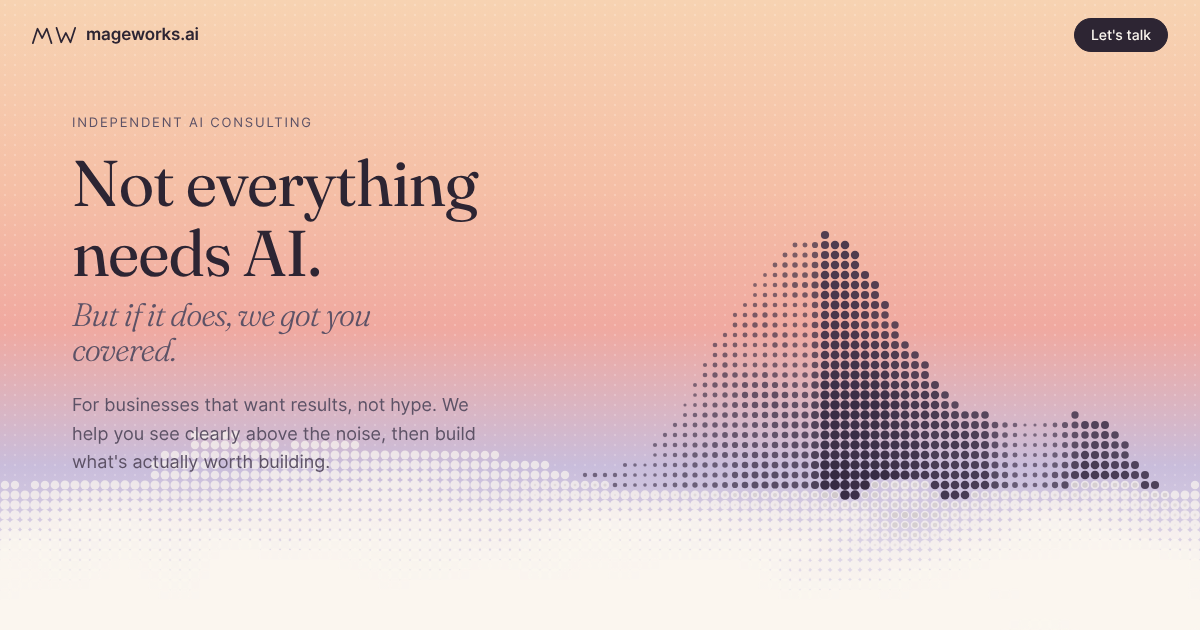
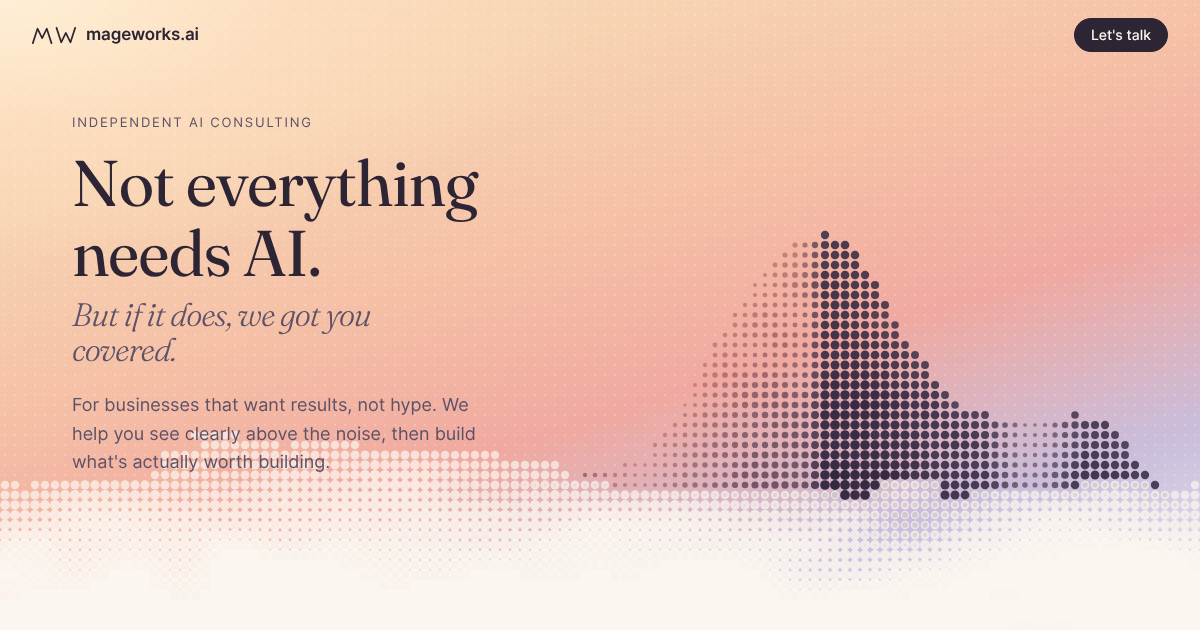
Design: top-left sunlight on hero, shake on invalid form, sliding Send success state
Claude-Session: https://claude.ai/code/session_015MoEFBQU6hkqTY2JQmHwoN

diff --git a/public/index.html b/public/index.html
@@ -78,7 +78,7 @@
   .progress { position: fixed; top: 0; left: 0; height: 3px; background: var(--accent); z-index: 30; width: 0; }
 
   /* Hero */
-  .hero { position: relative; z-index: 2; height: 100vh; min-height: 640px; overflow: visible; background: linear-gradient(180deg, var(--peach) 0%, #f5bfa6 30%, var(--coral) 52%, var(--lav) 74%, var(--mist) 100%); }
+  .hero { position: relative; z-index: 2; height: 100vh; min-height: 640px; overflow: visible; background: radial-gradient(ellipse 70% 60% at 0% 0%, rgba(255,240,214,.95) 0%, rgba(255,226,196,.55) 35%, rgba(255,226,196,0) 70%), linear-gradient(162deg, #f9dcbc 0%, var(--peach) 22%, #f5bfa6 42%, var(--coral) 60%, var(--lav) 80%, var(--mist) 100%); }
   .hero canvas { position: absolute; left: 0; top: 0; width: 100%; pointer-events: none; }
   .hero-copy { position: relative; z-index: 3; padding-top: 112px; will-change: transform, opacity; }
   .eyebrow { font-size: 13px; letter-spacing: .14em; text-transform: uppercase; color: var(--ink-2); margin-bottom: 16px; }
@@ -236,7 +236,20 @@
   .consent { font-size: 13px; color: var(--ink-2); line-height: 1.55; margin: 2px 0 4px; }
   .consent a { color: var(--ink); }
   .h-captcha { min-height: 78px; }
-  #sendBtn[disabled] { opacity: .6; cursor: wait; }
+  #sendBtn { position: relative; justify-content: center; overflow: hidden; transition: background .35s, border-color .35s, transform .2s; }
+  #sendBtn[disabled] { cursor: wait; }
+  #sendBtn .lbl, #sendBtn .arr { display: inline-block; transition: transform .55s cubic-bezier(.6,0,.3,1), opacity .4s; }
+  #sendBtn:hover:not([disabled]) .arr { transform: translateX(4px); }
+  #sendBtn.sending .arr { animation: nudge .9s ease-in-out infinite; }
+  @keyframes nudge { 0%, 100% { transform: translateX(0); } 50% { transform: translateX(7px); } }
+  #sendBtn .done { position: absolute; inset: 0; display: flex; align-items: center; justify-content: center; gap: 8px; transform: translateX(-105%); transition: transform .55s cubic-bezier(.3,0,.2,1) .2s; }
+  #sendBtn.sent { background: #3f6b34; border-color: #3f6b34; }
+  #sendBtn.sent .lbl, #sendBtn.sent .arr { transform: translateX(420px); opacity: 0; }
+  #sendBtn.sent .done { transform: none; }
+  .shake { animation: shake .45s cubic-bezier(.36,.07,.19,.97); }
+  @keyframes shake { 10%, 90% { transform: translateX(-2px); } 20%, 80% { transform: translateX(4px); } 30%, 50%, 70% { transform: translateX(-8px); } 40%, 60% { transform: translateX(8px); } }
+  .h-captcha.need { outline: 2px solid #c7655a; outline-offset: 4px; border-radius: 6px; }
+  @media (prefers-reduced-motion: reduce) { .shake, #sendBtn.sending .arr { animation: none; } #sendBtn .lbl, #sendBtn .arr, #sendBtn .done { transition: none; } }
   input[aria-invalid="true"], textarea[aria-invalid="true"] { border-color: #c7655a; }
   footer { background: var(--coral); padding: 28px 0 40px; font-size: 14px; color: var(--ink); }
   footer .wrap { display: flex; justify-content: space-between; gap: 16px; flex-wrap: wrap; }
@@ -424,7 +437,7 @@
       <label class="check"><input type="checkbox" name="marketing_opt_in" value="yes"> <span>Also send me occasional emails with practical AI tips and workshop invites. I can unsubscribe at any time. <em>(optional)</em></span></label>
       <div class="h-captcha" data-captcha="true"></div>
       <p class="consent">We'll use your details only to reply to your enquiry and follow up about it. Name, email and message are required so we can get back to you. See our <a href="/privacy">Privacy Notice</a> for how we handle your data and your rights. <span lang="ms">Baca <a href="/privacy#bm">Notis Privasi dalam Bahasa Malaysia</a>.</span></p>
-      <button class="btn dark" type="submit" id="sendBtn">Send</button>
+      <button class="btn dark" type="submit" id="sendBtn"><span class="lbl">Send</span> <span class="arr" aria-hidden="true">→</span><span class="done" aria-hidden="true">Sent ✓</span></button>
       <p class="form-note" id="note" role="status" aria-live="polite"></p>
     </form>
   </div>
@@ -486,10 +499,13 @@
         if (gy < r0) { cells.push({ x: gx, y: gy, sky: true }); continue; }
         const depth = Math.min(1, (gy - r0) / (H * 0.28));
         const slope = (ridgeBase(gx + 6) - ridgeBase(gx - 6)) / 12;           // smooth: + means right-hand (shadow) face
-        let v = 0.32 + depth * 0.3 + Math.max(-0.16, Math.min(0.3, slope * 0.9)) + (fbm(gx * 0.025, gy * 0.025) - 0.5) * 0.3;
+        // Light comes from the top-left: left-facing slopes catch it, right-facing slopes and the lower-right fall into shadow
+        let v = 0.32 + depth * 0.3 + Math.max(-0.16, Math.min(0.3, slope * 0.9)) + (fbm(gx * 0.025, gy * 0.025) - 0.5) * 0.3 + 0.1 * (gx / W - 0.5);
         v = Math.max(0.1, Math.min(1, v));
         const mist = mistAt(gx, gy, zones);
-        cells.push({ x: gx, y: gy, r: S * 0.5 * Math.sqrt(v) * (1 - 0.55 * mist), a: (0.5 + v * 0.5) * (1 - 0.82 * mist) });
+        const lit = Math.max(0, Math.min(1, -slope * 1.6 + 0.15)) * (1 - depth * 0.75);   // 0 = shadow, 1 = sunlit
+        const col = [Math.round(52 + (176 - 52) * lit), Math.round(40 + (98 - 40) * lit), Math.round(64 + (96 - 64) * lit)].join(',');
+        cells.push({ x: gx, y: gy, r: S * 0.5 * Math.sqrt(v) * (1 - 0.55 * mist), a: (0.5 + v * 0.5) * (1 - 0.82 * mist), col });
       }
     }
   }
@@ -539,14 +555,14 @@
         // inside the cloud bank: solid cream, matching the next section's background
         ctx.fillStyle = CREAM; ctx.fillRect(c.x - S / 2 - 0.5, c.y - S / 2 - 0.5, S + 1, S + 1);
       } else if (k > 0.22) {
-        if (!c.sky && k < 0.6) { const f = 1 - k / 0.6; ctx.fillStyle = `rgba(52,40,64,${c.a * f})`; ctx.beginPath(); ctx.arc(c.x, c.y, c.r * f, 0, 7); ctx.fill(); }
+        if (!c.sky && k < 0.6) { const f = 1 - k / 0.6; ctx.fillStyle = `rgba(${c.col},${c.a * f})`; ctx.beginPath(); ctx.arc(c.x, c.y, c.r * f, 0, 7); ctx.fill(); }
         // dots swell as the cloud thickens, so the edge of the bank is soft and organic
         ctx.fillStyle = `rgba(251,246,239,${0.6 + k * 0.4})`;
         ctx.beginPath(); ctx.arc(c.x, c.y, S * (0.42 + 0.4 * (k - 0.22)), 0, 7); ctx.fill();
       } else if (c.sky) {
         ctx.fillStyle = 'rgba(255,255,255,0.3)'; ctx.beginPath(); ctx.arc(c.x, c.y, S * 0.09, 0, 7); ctx.fill();
       } else {
-        ctx.fillStyle = `rgba(52,40,64,${c.a})`; ctx.beginPath(); ctx.arc(c.x, c.y, c.r, 0, 7); ctx.fill();
+        ctx.fillStyle = `rgba(${c.col},${c.a})`; ctx.beginPath(); ctx.arc(c.x, c.y, c.r, 0, 7); ctx.fill();
       }
     }
   }
@@ -597,6 +613,8 @@
   // Enquiry form: Web3Forms + hCaptcha, submitted in the background so the page stays put
   const form = document.getElementById('form'), note = document.getElementById('note'), sendBtn = document.getElementById('sendBtn');
   const say = (msg, cls) => { note.textContent = msg; note.className = 'form-note' + (cls ? ' ' + cls : ''); };
+  const shake = el => { el.classList.remove('shake'); void el.offsetWidth; el.classList.add('shake'); el.addEventListener('animationend', () => el.classList.remove('shake'), { once: true }); };
+  form.querySelectorAll('[required]').forEach(el => el.addEventListener('input', () => el.setAttribute('aria-invalid', 'false')));
   form.addEventListener('submit', async e => {
     e.preventDefault();
     let firstBad = null;
@@ -605,24 +623,31 @@
       el.setAttribute('aria-invalid', bad ? 'true' : 'false');
       if (bad && !firstBad) firstBad = el;
     });
-    if (firstBad) { say('Please fill in your name, a valid email and your message.', 'err'); firstBad.focus(); return; }
+    if (firstBad) {
+      say('Please fill in your name, a valid email and your message.', 'err');
+      form.querySelectorAll('[aria-invalid="true"]').forEach(shake); shake(sendBtn); firstBad.focus(); return;
+    }
     const data = new FormData(form);
     if (data.get('access_key') === 'REPLACE_WITH_WEB3FORMS_ACCESS_KEY') { say('The form isn\'t connected yet. Please email info@mageworks.ai for now.', 'err'); return; }
-    if (!data.get('h-captcha-response')) { say('Please complete the "I am human" check above the Send button.', 'err'); return; }
-    sendBtn.disabled = true; say('Sending…');
+    const cap = form.querySelector('.h-captcha');
+    if (!data.get('h-captcha-response')) { say('Please complete the "I am human" check above the Send button.', 'err'); cap.classList.add('need'); shake(cap); shake(sendBtn); return; }
+    cap.classList.remove('need');
+    sendBtn.disabled = true; sendBtn.classList.add('sending'); say('Sending…');
     try {
       const res = await fetch('https://api.web3forms.com/submit', { method: 'POST', headers: { Accept: 'application/json' }, body: data });
       const out = await res.json().catch(() => ({}));
       if (res.ok && out.success) {
         form.reset(); if (window.hcaptcha) try { hcaptcha.reset(); } catch (_) {}
+        sendBtn.classList.remove('sending'); sendBtn.classList.add('sent');
+        setTimeout(() => sendBtn.classList.remove('sent'), 5000);
         say('Thanks, your message is on its way. Chee Loung will get back to you, usually within one working day.', 'ok');
       } else {
-        say('Sorry, that didn\'t go through. Please try again, or email info@mageworks.ai.', 'err');
+        say('Sorry, that didn\'t go through. Please try again, or email info@mageworks.ai.', 'err'); shake(sendBtn);
         if (window.hcaptcha) try { hcaptcha.reset(); } catch (_) {}
       }
     } catch (_) {
       say('Sorry, that didn\'t go through. Please check your connection, or email info@mageworks.ai.', 'err');
-    } finally { sendBtn.disabled = false; }
+    } finally { sendBtn.disabled = false; sendBtn.classList.remove('sending'); }
   });
 })();
 </script>

diff --git a/CHANGELOG.md b/CHANGELOG.md
@@ -1,5 +1,11 @@
 # Changelog
 
+## 2026-11-06: Design changes on site-v1
+- Hero lighting: warm sun glow from the top-left and a diagonal sky gradient; the mountain's left slopes catch warm light while the right side stays in shadow.
+- Form: missing fields or captcha make the fields, captcha and Send button shake, with a red highlight.
+- Send button: text centred with an arrow; while sending the arrow nudges, and on success the text slides out to the right and a green "Sent ✓" slides in.
+- Link-preview image refreshed with the new lighting.
+
 ## 2026-11-06: Site v1 (branch `site-v1`)
 - Homepage from the approved "Above the Clouds" concept: self-hosted fonts, SEO and link-preview tags, icons, WhatsApp buttons removed for now.
 - Enquiry form via Web3Forms with hCaptcha spam check, notice line, optional marketing opt-in, and the notice version recorded with each submission. Web3Forms access key added (form "mageworks.ai enquiry form").
